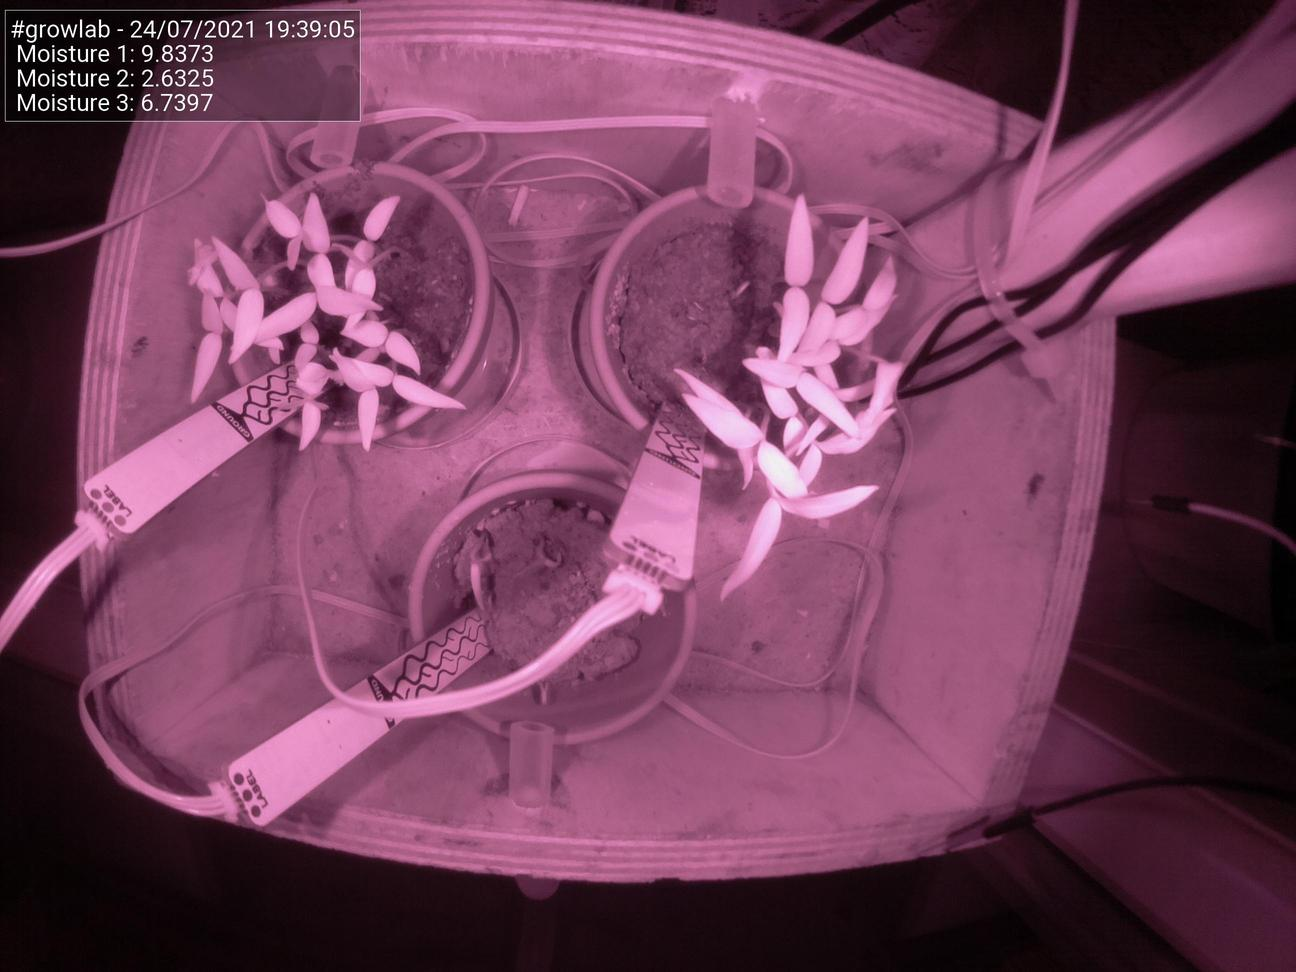
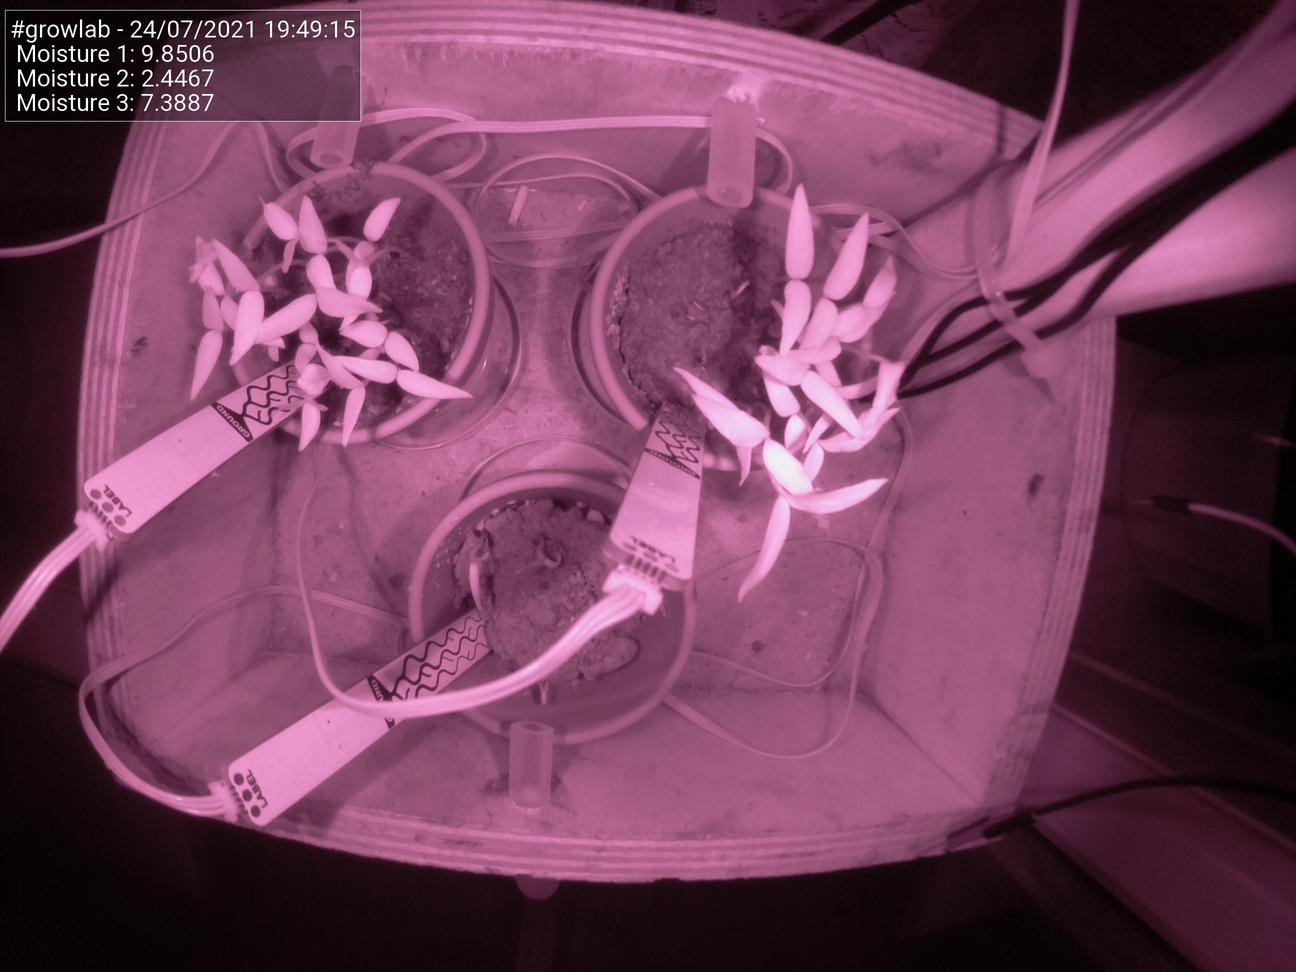
Update images at Sat 24 Jul 19:49:21 BST 2021

diff --git a/docs/index.html b/docs/index.html
@@ -51,25 +51,25 @@
                                 <td>Date</td>
                                 <td>24/07/2021</td>
                                 <td>Time</td>
-                                <td>19:39:05</td>
+                                <td>19:49:15</td>
                             </tr>
                             <tr>
                                 <td>Temperature</td>
                                 <td>N/A</td>
                                 <td>Moisture 1</td>
-                                <td>9.8373</td>
+                                <td>9.8506</td>
                             </tr>
                             <tr>
                                 <td>Humidity</td>
                                 <td>N/A</td>
                                 <td>Moisture 2</td>
-                                <td>2.6325</td>
+                                <td>2.4467</td>
                             </tr>
                             <tr>
                                 <td>Pressure</td>
                                 <td>N/A</td>
                                 <td>Moisture 3</td>
-                                <td>6.7397</td>
+                                <td>7.3887</td>
                             </tr>
                         </tbody>
                     </table>
@@ -77,7 +77,7 @@
 
                 <h5>Latest image</h5>
                 <div style="width: 85%;">
-                            <img class="figure-img img-fluid rounded" src="./preview.jpg?uid=1627151951.3045642">
+                            <img class="figure-img img-fluid rounded" src="./preview.jpg?uid=1627152561.040254">
                 </div>
             </div>
         </div>
